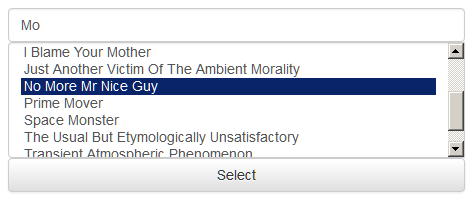
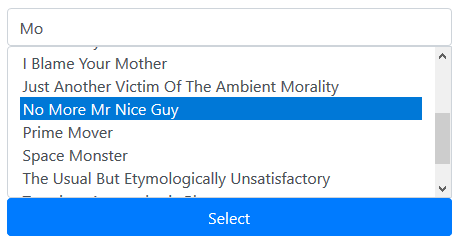
Update demo to use Bootstrap 4

diff --git a/demo/src/index.js b/demo/src/index.js
@@ -168,7 +168,7 @@ class NoFilter extends React.Component {
 
 class App extends React.Component {
   render() {
-    return <div className="container">
+    return <div className="container mb-5">
       <div className="row header">
         <div className="col-md-12">
           <h1><a href="https://github.com/insin/react-filtered-multiselect">React &lt;FilteredMultiSelect/&gt;</a></h1>
